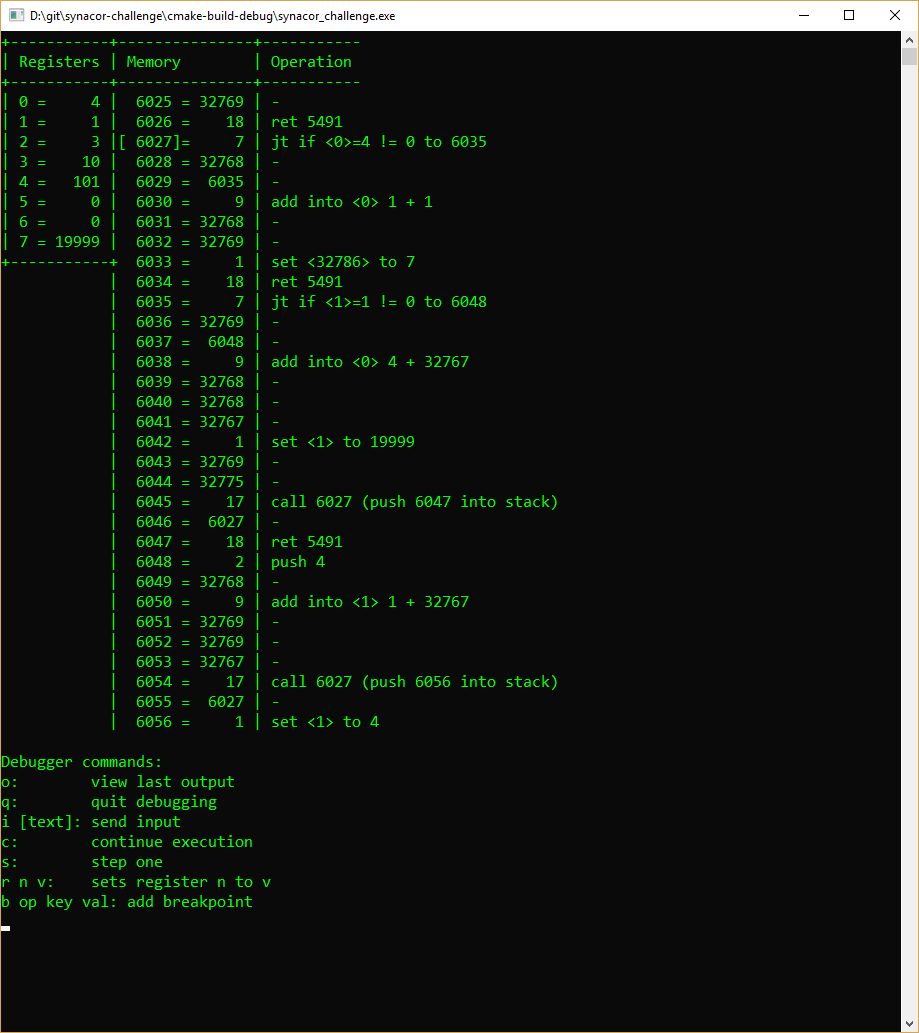
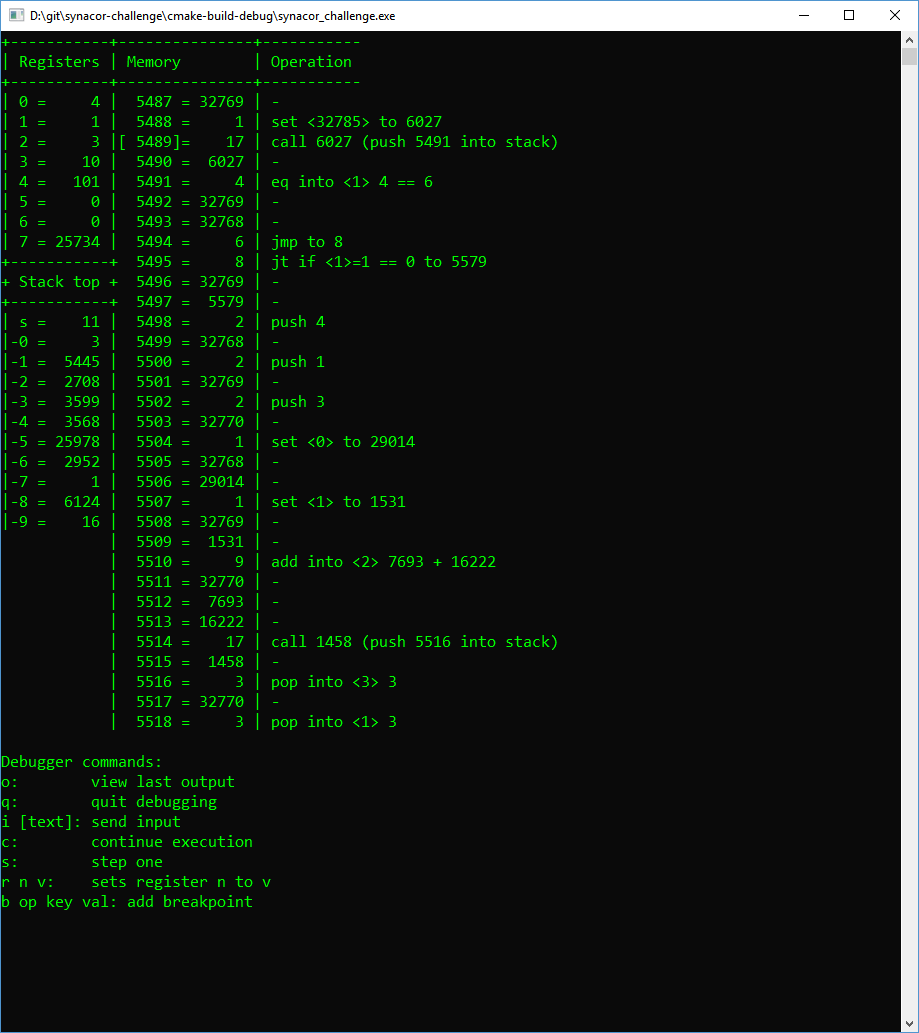
Successfully solved and bypassed confirmation
Got code 7

diff --git a/vm.cpp b/vm.cpp
@@ -3,7 +3,12 @@
 //
 
 #include <c++/sstream>
+#include <c++/thread>
 #include "vm.h"
+#include "confirmation.h"
+
+#define NUM_THREADS 8
+#define RANGE 32768/NUM_THREADS
 
 // UTILS
 
@@ -257,7 +262,14 @@ void vm::resume_program(vector<breakpoint>& breakpoints) {
     while(program_state == running) {
         // Check breakpoints
         for (const breakpoint& b : breakpoints) {
-            if (memory[memory_ptr] == b.op) {
+            if (b.op > 21) {
+                // Break at line
+                if (memory_ptr == b.op) {
+                    breakpoint_hit = true;
+                    breakpoint_text = "break at line: " + memory_ptr;
+                }
+            }
+            if (!breakpoint_hit && memory[memory_ptr] == b.op) {
                 switch (b.t) {
                     case break_at_op:
                         breakpoint_hit = true;
@@ -291,7 +303,8 @@ void vm::resume_program(vector<breakpoint>& breakpoints) {
             }
             if (breakpoint_hit) {
                 cout << "Breakpoint hit!\n";
-                cout << opstrings[b.op] << " type: " << breakpoint_text << endl;
+                if (b.op <= 21 ) cout << opstrings[b.op];
+                cout << " type: " << breakpoint_text << endl;
                 program_state = terminated;
                 break;
             }
@@ -346,6 +359,10 @@ string vm::get_output(bool clear) {
 
 uint16_t vm::get_memory_ptr() const {
     return memory_ptr;
+}
+
+void vm::set_memory_ptr(uint16_t p) {
+    memory_ptr = p;
 }
 
 uint16_t *vm::get_memory() {
@@ -461,6 +478,32 @@ string vm::get_operation_text(uint16_t ptr) {
         default:
             return "-";
     }
+}
+
+void find_input(int tid) {
+    const uint16_t result = 6;
+    confirmation c;
+    uint16_t min = (tid-1)*RANGE;
+    uint16_t max = (tid)*RANGE;
+    uint16_t input = c.get_input_for_output(result, min, max);
+    if (input > 0) {
+        cout << "Thread " << tid;
+        cout << " found! r[7]=" << input << " yields func6027().r[0]=6\n";
+    }
+}
+
+uint16_t vm::solve_confirmation_problem() {
+    cout << "Finding confirmation routine input\n";
+    thread t[NUM_THREADS];
+    for (int i = 0; i < NUM_THREADS; i++) {
+        t[i] = thread(find_input, i);
+    }
+    cout << "Launched " << NUM_THREADS << " threads\n";
+    for (int i = 0; i < NUM_THREADS; i++) {
+        t[i].join();
+    }
+    return 0;
+
 }
 
 

diff --git a/confirmation.h b/confirmation.h
@@ -9,39 +9,63 @@
 #include <c++/cstdint>
 #include <vector>
 #include <c++/iostream>
+#include <c++/map>
 
 using namespace std;
 
-struct regs {
-	uint16_t reg0;
-	uint16_t reg1;
-};
+typedef pair<uint16_t, uint16_t> regs;
+
 
 class confirmation {
 private:
     uint16_t reg7;
-    regs func6027(regs r) {
-        if (r.reg0 == 0) {
-			r.reg0 = r.reg1+1;	//reg0 = (reg1+1)%32768;
-            return r;
+    regs reg01;
+    map<regs, regs> memo;
+    uint16_t add(const uint16_t a, const uint16_t b) {
+        return (uint16_t)((a+b)%32768);
+    }
+    uint16_t minusone(const uint16_t a) {
+        return (uint16_t)((a+32767)%32768);
+    }
+    regs func6027(const regs r) {
+        if (memo.count(r) > 0) {
+            return memo[r];
         }
-        if (r.reg1 == 0) {
-			r.reg0--;			//reg0 = (reg0+32767)%32768;
-            r.reg1 = reg7;
-            return func6027(r);
+        /*if (r.first >= 32768) {
+            cout << "ERROR in reg0!\n";
         }
-        //uint16_t temp = reg0;
-		r.reg1--;				//reg1 = (reg1+32767)%32768;
-        r.reg1 = func6027(r).reg0;
-        //reg1 = reg0;
-        //reg0 = temp;
-		r.reg0--;				//reg0 = (reg0+32767)%32768;
-        return func6027(r);
+        if (r.second >= 32768) {
+            cout << "ERROR in reg1!\n";
+        }*/
+        if (r.first == 0) {
+            regs ret = make_pair(add(r.second,1), r.second);
+            memo[r]=ret;
+            return ret;
+        }
+        if (r.second == 0) {
+            regs ret = func6027( make_pair(minusone(r.first), reg7) );
+            memo[r]=ret;
+            return ret;
+        }
+        uint16_t new_reg1 = func6027( make_pair(r.first, minusone(r.second)) ).first;
+        regs ret = func6027( make_pair(minusone(r.first), new_reg1) );
+        memo[r]=ret;
+        return ret;
     }
 public:
-    confirmation(uint16_t reg7) : reg7(reg7) {
-		regs r = {4, 1};
-        cout << func6027(r).reg0;
+    confirmation() : reg7(0) {
+        reg01 = regs(4, 1);
+    }
+    uint16_t run(uint16_t eight_register) {
+        reg7 = eight_register;
+        memo.clear();
+        return func6027(reg01).first;
+    }
+    uint16_t get_input_for_output(uint16_t result, uint16_t min, uint16_t max) {
+        for (reg7 = min; reg7 < max; reg7++) {
+            if (result == run(reg7)) return reg7;
+        }
+        return 0;
     }
 };
 

diff --git a/main.cpp b/main.cpp
@@ -1,5 +1,4 @@
 #include "vm.h"
-#include "confirmation.h"
 #include <cstdlib>
 #include <iomanip>
 #include <algorithm>
@@ -26,6 +25,7 @@ void print_help() {
     cout << "c:        continue execution\n";
     cout << "s:        step one\n";
     cout << "r n v:    sets register n to v\n";
+    cout << "g n:      go to address n\n";
     cout << "b op key val: add breakpoint\n";
 }
 
@@ -42,10 +42,18 @@ void print_screen(vm& p) {
     for (uint16_t i=0; i<lines; i++) {
         if (i < 8) {
             cout << "| " << i << " = " << setw(5) << registers[i] << " |";
-        } else if (i == 8) {
+        } else if (i == 8 || i == 10) {
             cout << "+-----------+";
-        } else {
-            cout << "            |";
+        } else if (i == 9) {
+            cout << "+ Stack top +";
+        } else if (i == 11) {
+            cout << "| s = " << setw(5) << p.get_stack().size() << " |";
+        } else  {
+            if (i-12 < p.get_stack().size() && (i-12 < 10)) {
+                cout << "|-" << i-12 << " = " << setw(5) << p.get_stack()[p.get_stack().size()-(i-12)-1] << " |";
+            } else {
+                cout << "            |";
+            }
         }
         if (memory_ptr+i >= lookback) {
             addr = memory_ptr+i-lookback;
@@ -64,8 +72,6 @@ void clear_screen() {
 }
 
 int main() {
-
-    confirmation routine(2);
 
     vm program("challenge.bin");
 
@@ -121,6 +127,8 @@ int main() {
     // Run the program
     program.run_program(0);
 
+    //program.solve_confirmation_problem();
+
     // Enter debug loop
     bool debugging = true;
     string line;
@@ -153,6 +161,13 @@ int main() {
                 reg = (uint16_t)stoul(words[1]);
                 val = (uint16_t)stoul(words[2]);
                 program.get_registers()[reg] = val;
+                break;
+            case 'g':
+                program.set_memory_ptr(stoul(words[1]));
+                break;
+            case 'l':
+                bp.op = (uint16_t)stoul(words[1]);
+                breakpoints.push_back(bp);
                 break;
             case 'b':
                 // b op key val

diff --git a/vm.h b/vm.h
@@ -61,9 +61,11 @@ public:
     uint16_t get_memory_ptr() const;
     uint16_t* get_memory();
     uint16_t* get_registers();
+    void set_memory_ptr(uint16_t p);
     vector<uint16_t> get_stack() const;
     state get_state() const;
     string get_operation_text(uint16_t ptr);
+    uint16_t solve_confirmation_problem();
 };
 
 
